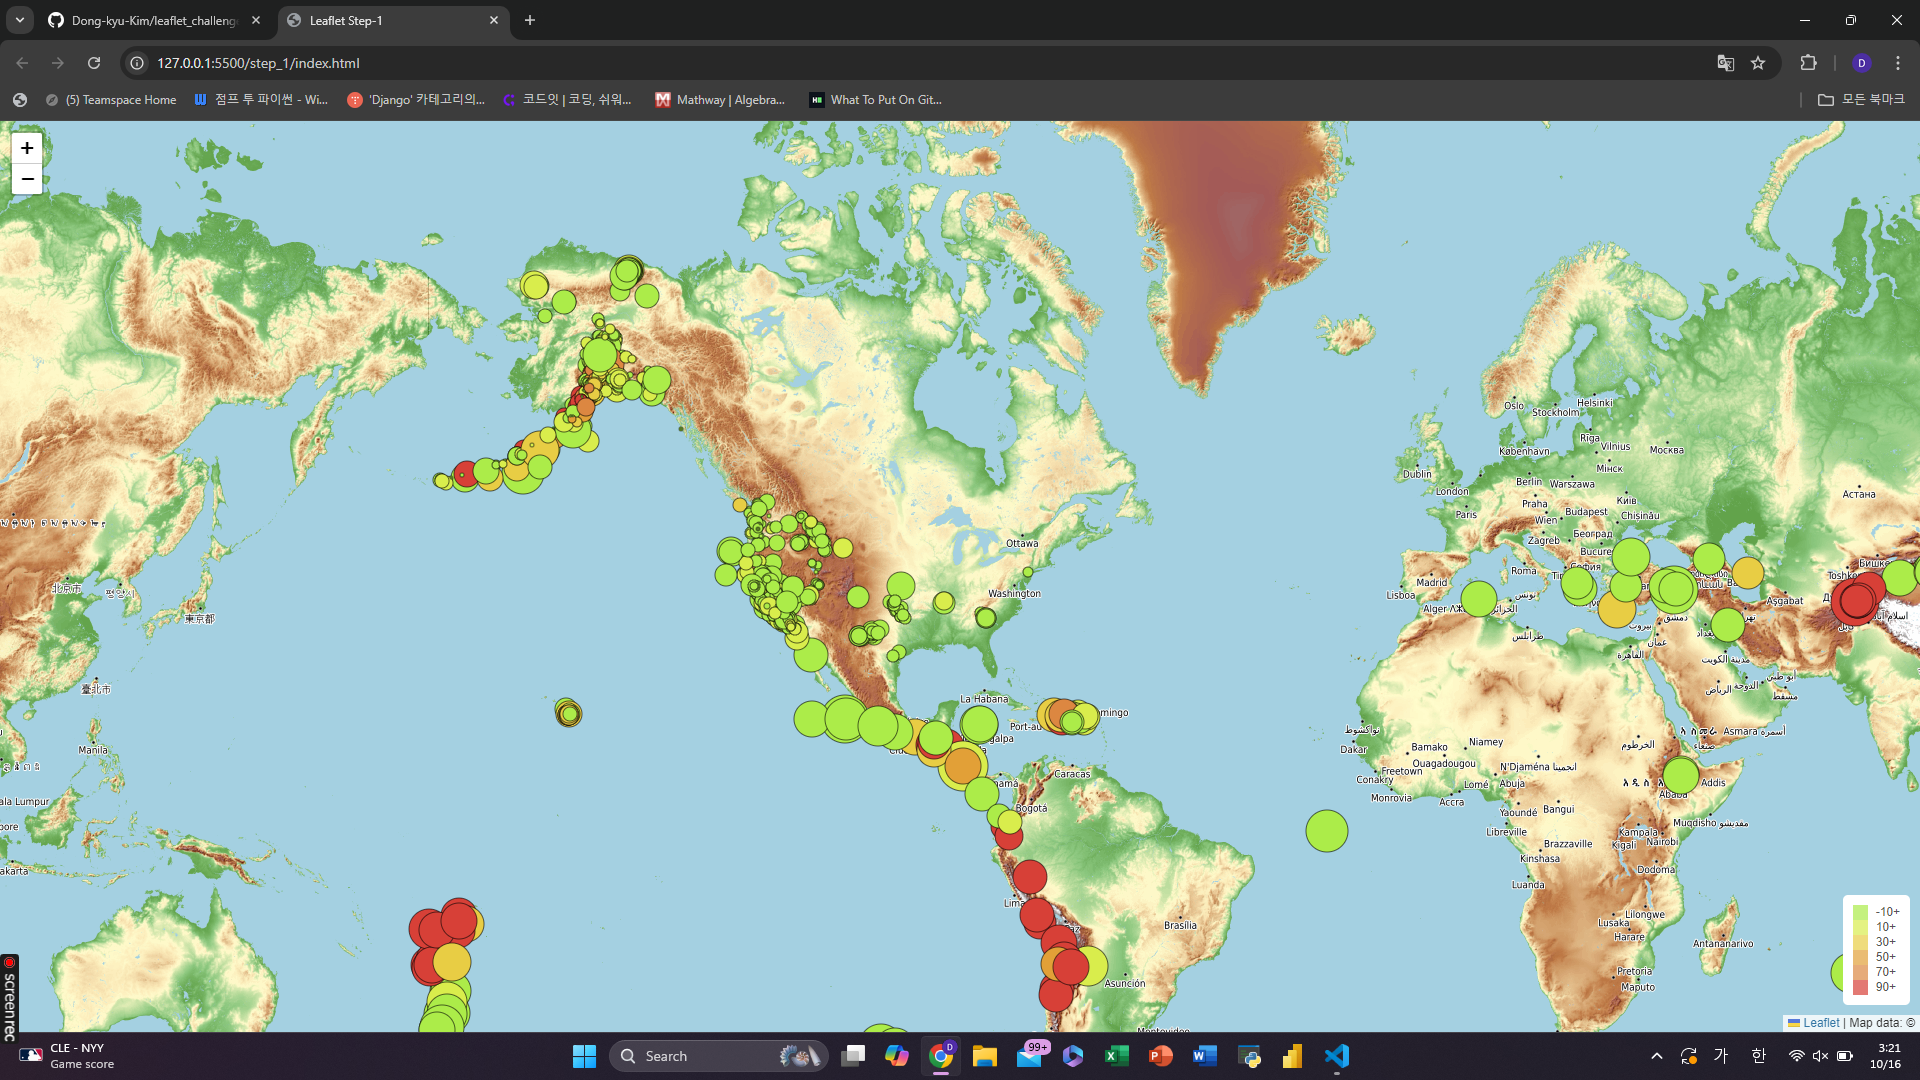
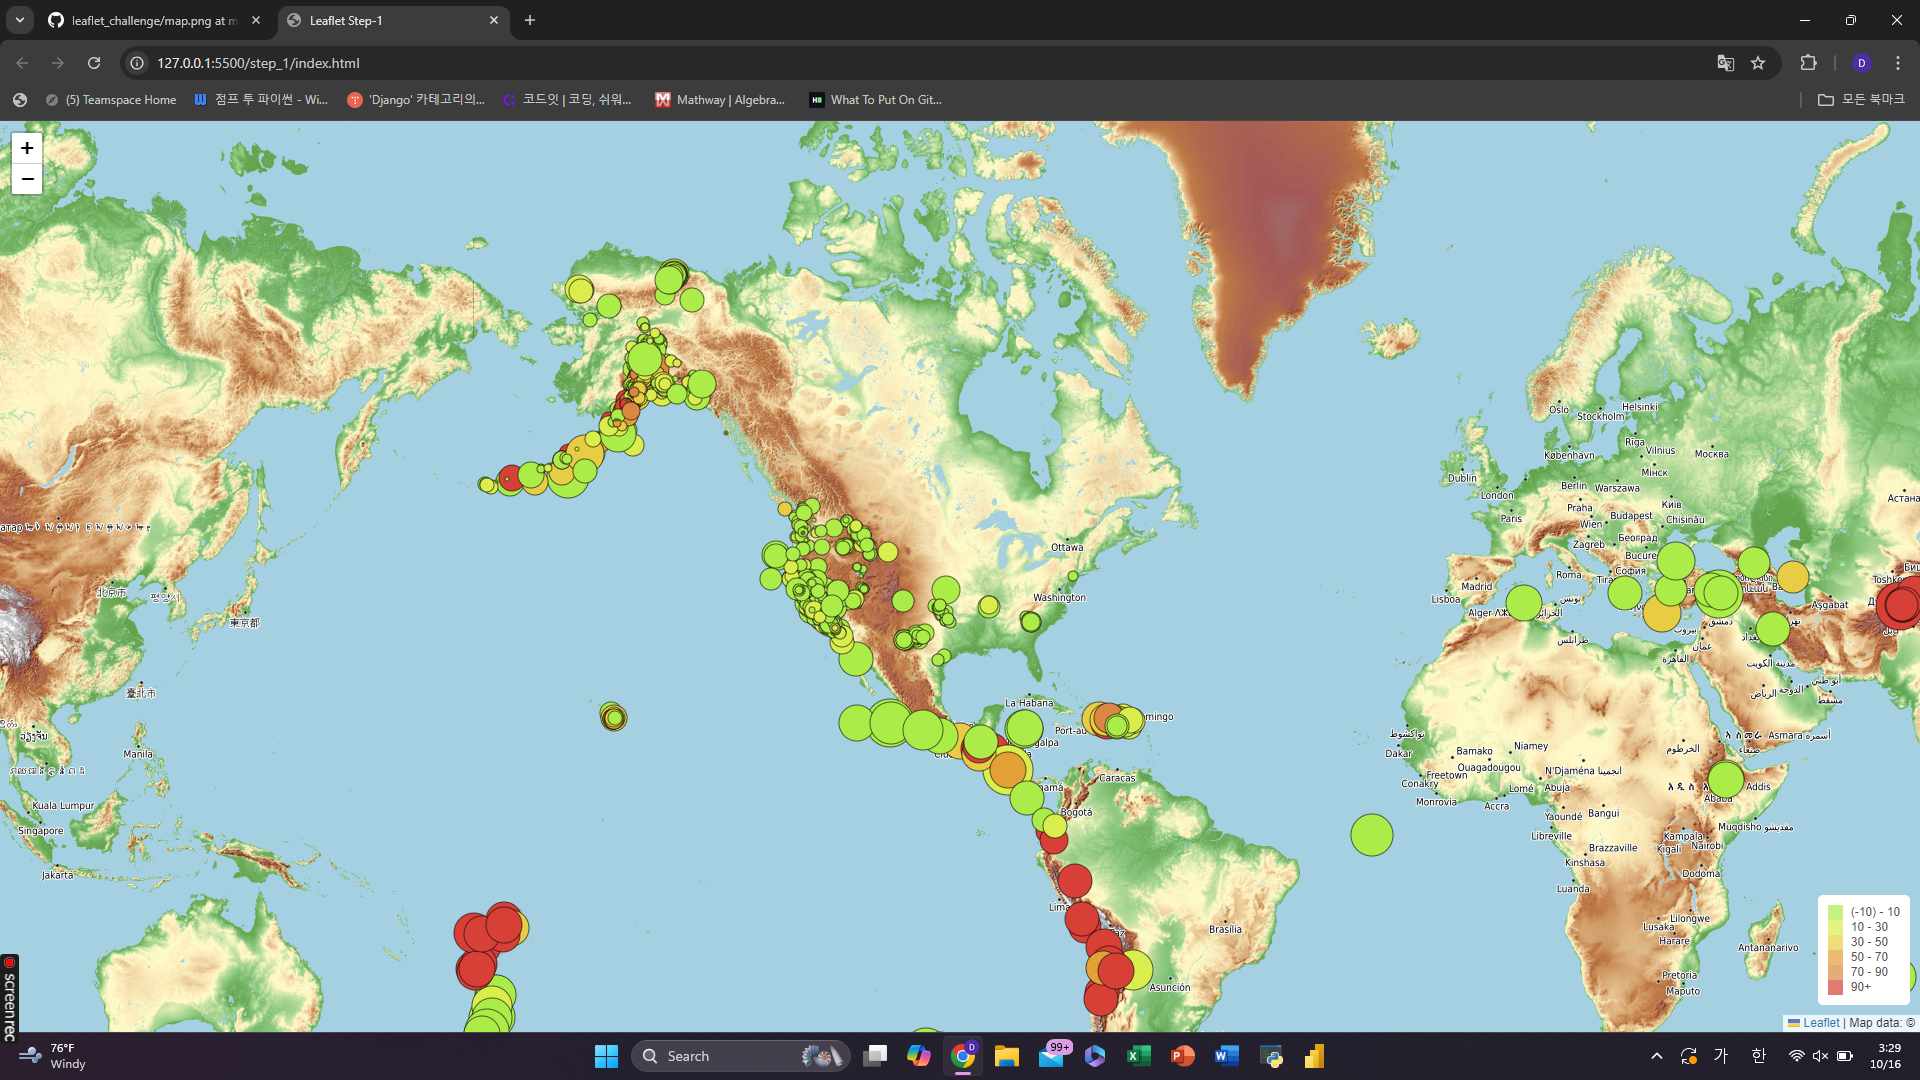
code with result

diff --git a/step_1/static/js/logic.js b/step_1/static/js/logic.js
@@ -69,10 +69,10 @@ d3.json("https://earthquake.usgs.gov/earthquakes/feed/v1.0/summary/all_week.geoj
 
     legend.onAdd = function(){
         let container = L.DomUtil.create("div", "info legend");
-        let grades = [-10, 10, 30, 50, 70, 90];
+        let grades = ["(-10) - 10", "10 - 30", "30 - 50", "50 - 70", "70 - 90", "90+"];
         let colors = ['#98ee00', '#d4ee00', '#eecc00', '#ee9c00', '#ea822c', '#ea2c2c'];
         for(let index = 0; index < grades.length; index++) {
-            container.innerHTML += `<i style="background: ${colors[index]}"></i> ${grades[index]}+ <br>`
+            container.innerHTML += `<i style="background: ${colors[index]}"></i> ${grades[index]} <br>`
         }
         return container;
     }
